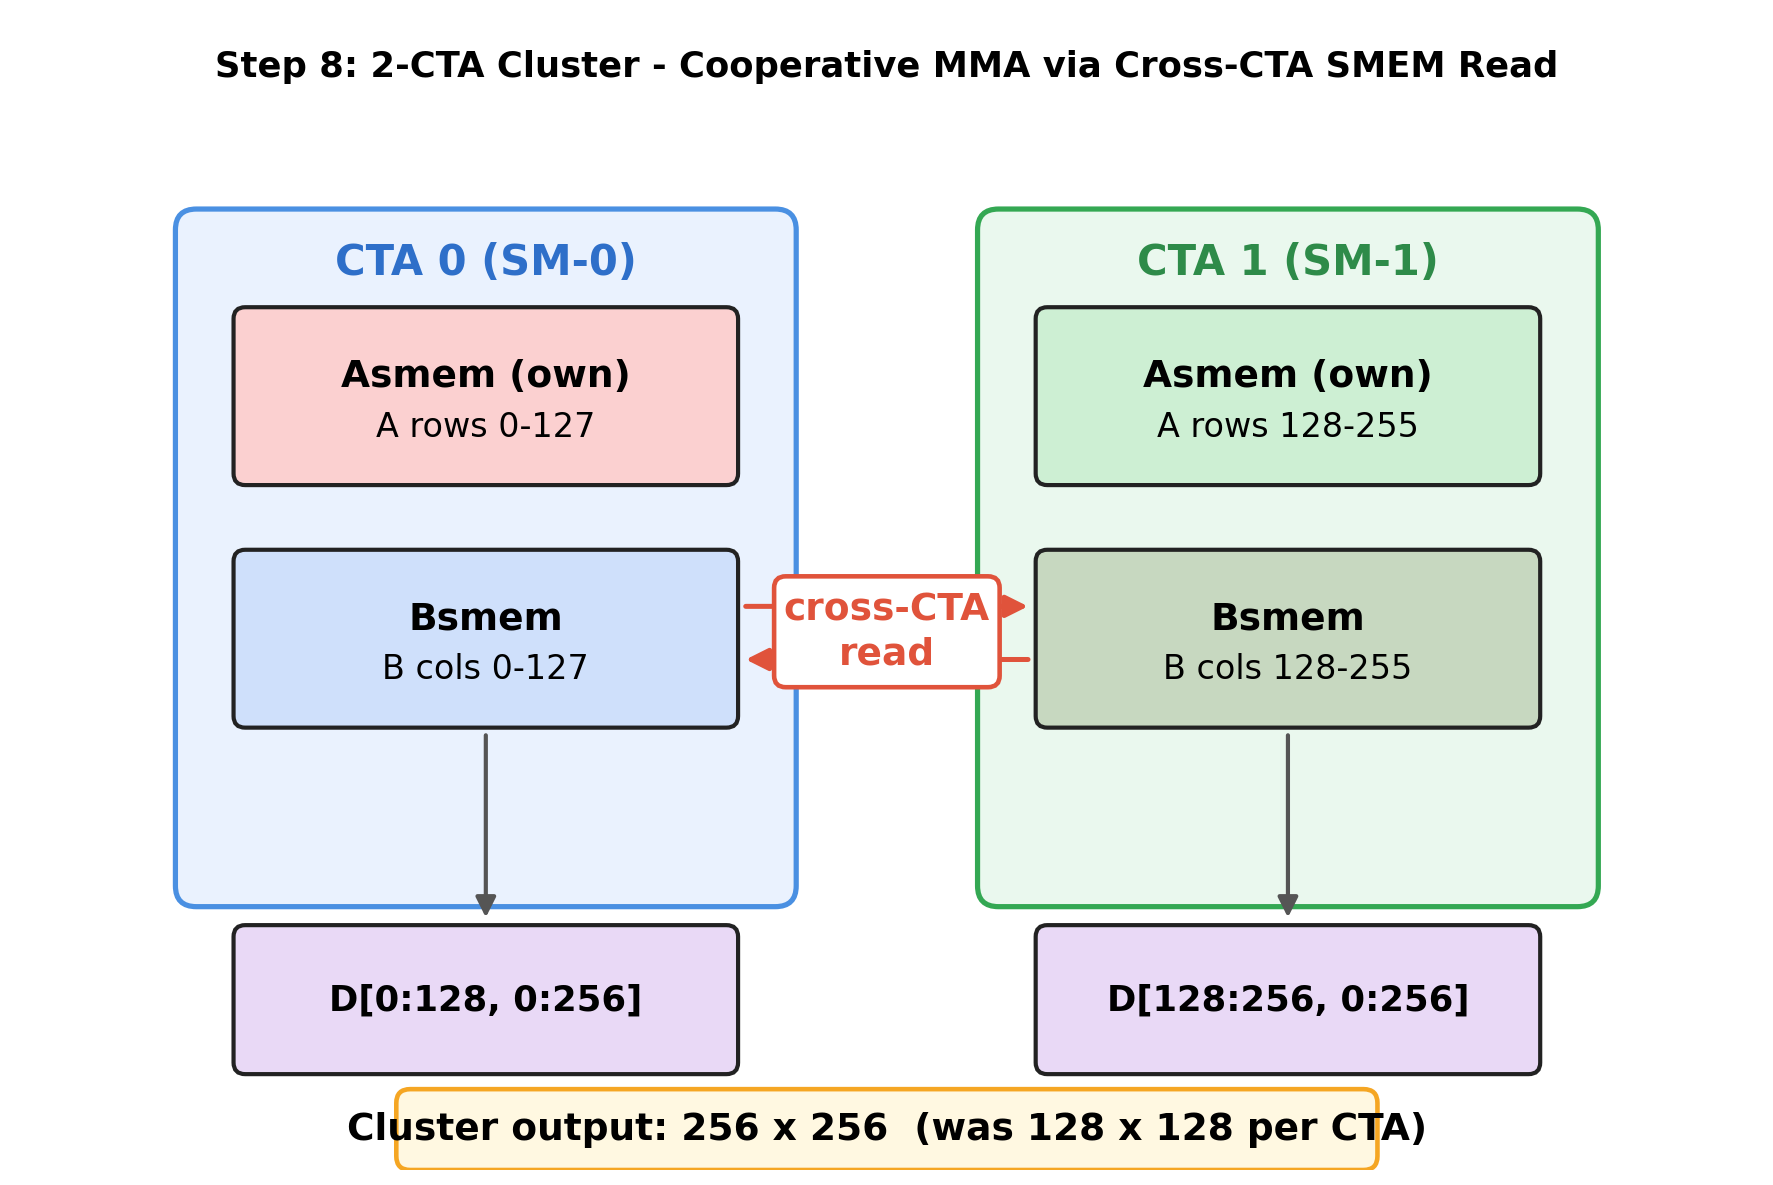
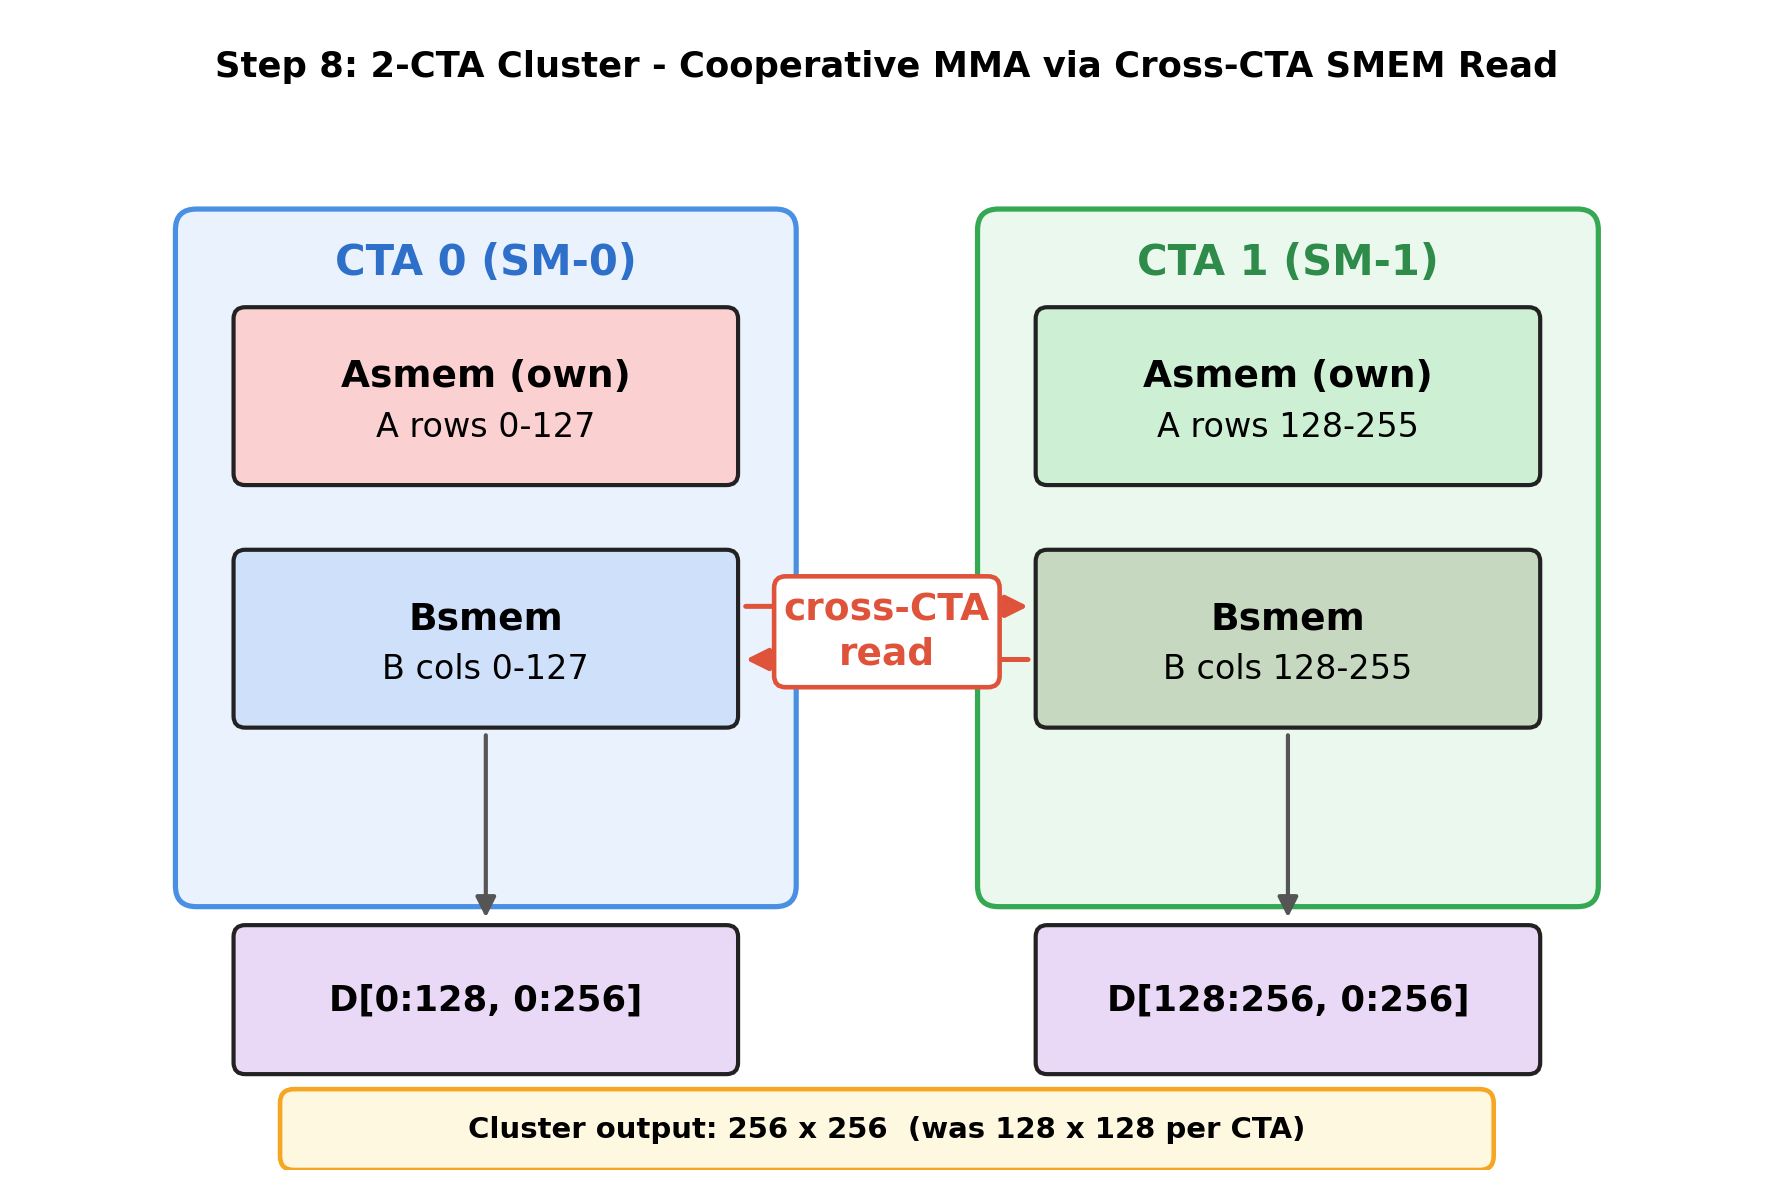
fix(demo): Safari iframe scaling + cta_cluster caption overflow (#61)
- Demos looked broken in Safari because the zoom viewer scaled iframes with CSS
  'zoom', which Safari does not apply to iframe content (the +/- controls did
  nothing). Scale with transform: scale() instead, with transform-origin at the
  top-left and the stage sized to the scaled box so clicks still route correctly;
  the stage clips and the iframe is absolutely positioned. Works in Chrome and
  Safari.
- Regenerate cta_cluster.png: the bottom caption overflowed its box; shrink the
  caption font and widen the box so it fits.

Changed region(s): [[0.1551, 0.9055, 0.8686, 0.9992]]

diff --git a/static/demo-embed.js b/static/demo-embed.js
@@ -48,12 +48,17 @@
     var nat = { w: 1280, h: 600 }, z = 1, fitZ = 1;
 
     function apply() {
-      // Use CSS `zoom` (not `transform: scale`): zoom scales the layout box AND
-      // keeps pointer/click events correctly mapped inside the iframe — a scaled
-      // (transform) iframe mis-routes clicks, so the demo's buttons stop working.
+      // Scale with `transform: scale` (not CSS `zoom`): Safari does not apply `zoom`
+      // to an <iframe>'s content, so the zoom controls did nothing and demos looked
+      // broken there. With transform-origin at the top-left and the stage sized to
+      // the *scaled* box, pointer/click events still map correctly into the iframe
+      // in both Chrome and Safari.
       iframe.style.width = nat.w + "px";
       iframe.style.height = nat.h + "px";
-      iframe.style.zoom = z;
+      iframe.style.transformOrigin = "0 0";
+      iframe.style.transform = "scale(" + z + ")";
+      stage.style.width = Math.round(nat.w * z) + "px";
+      stage.style.height = Math.round(nat.h * z) + "px";
     }
     var settleUntil = 0;
     function recompute(resetZoom) {

diff --git a/static/demo-embed.css b/static/demo-embed.css
@@ -37,8 +37,13 @@
 }
 .demo-stage {
   position: relative;
+  overflow: hidden;
 }
 .demo-stage iframe {
   display: block;
   border: 0;
+  position: absolute;
+  top: 0;
+  left: 0;
+  transform-origin: 0 0;
 }

diff --git a/img/scripts/gen_cta_cluster.py b/img/scripts/gen_cta_cluster.py
@@ -23,7 +23,7 @@ FS_BOX = 18
 FS_BOX_SUB = 16
 FS_LABEL = 18
 FS_OUT = 17
-FS_CAPTION = 18
+FS_CAPTION = 14
 
 
 def box(ax, x, y, w, h, fill, edge, lw=2.0, rounding=0.10, z=1):
@@ -165,7 +165,7 @@ def main():
     ax.add_patch(FancyArrowPatch((10.95, 3.80), (10.95, 2.15), **down_kw, zorder=1))
 
     # --- Bottom caption ---
-    box(ax, 3.3, 0.02, 8.4, 0.66, "#FFF8E1", "#F5A623", lw=2.2, rounding=0.12, z=2)
+    box(ax, 2.3, 0.02, 10.4, 0.66, "#FFF8E1", "#F5A623", lw=2.2, rounding=0.12, z=2)
     ax.text(
         7.5,
         0.35,